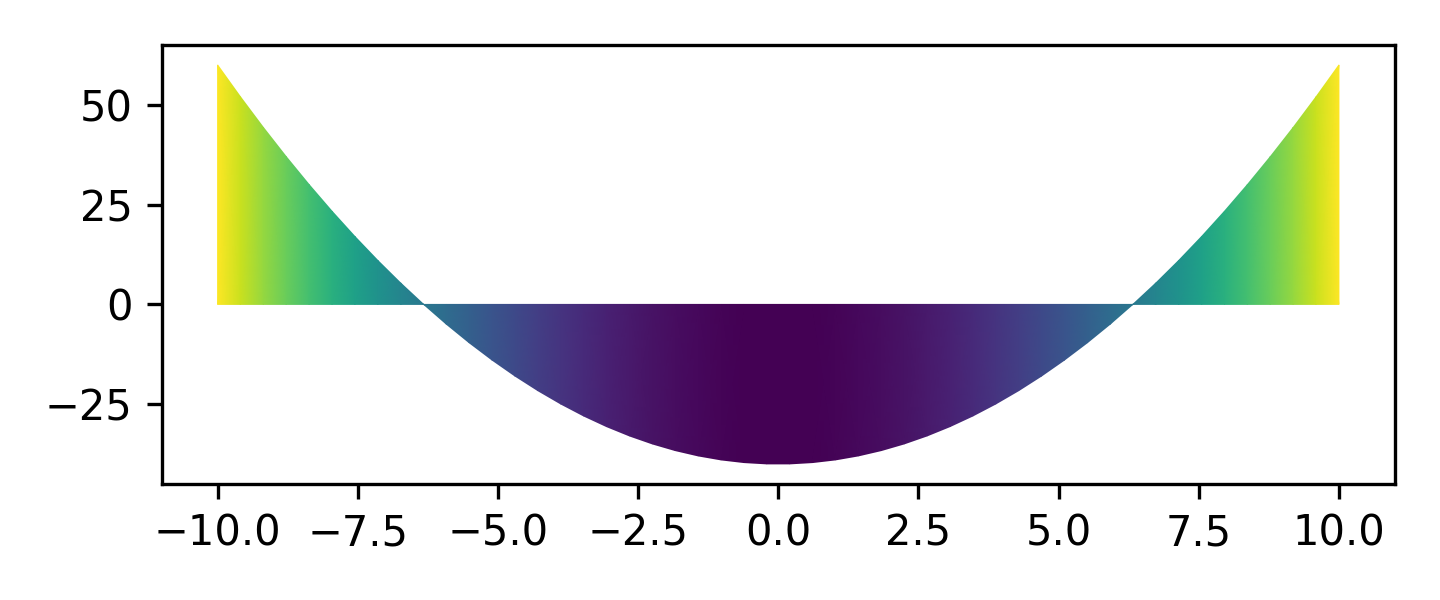
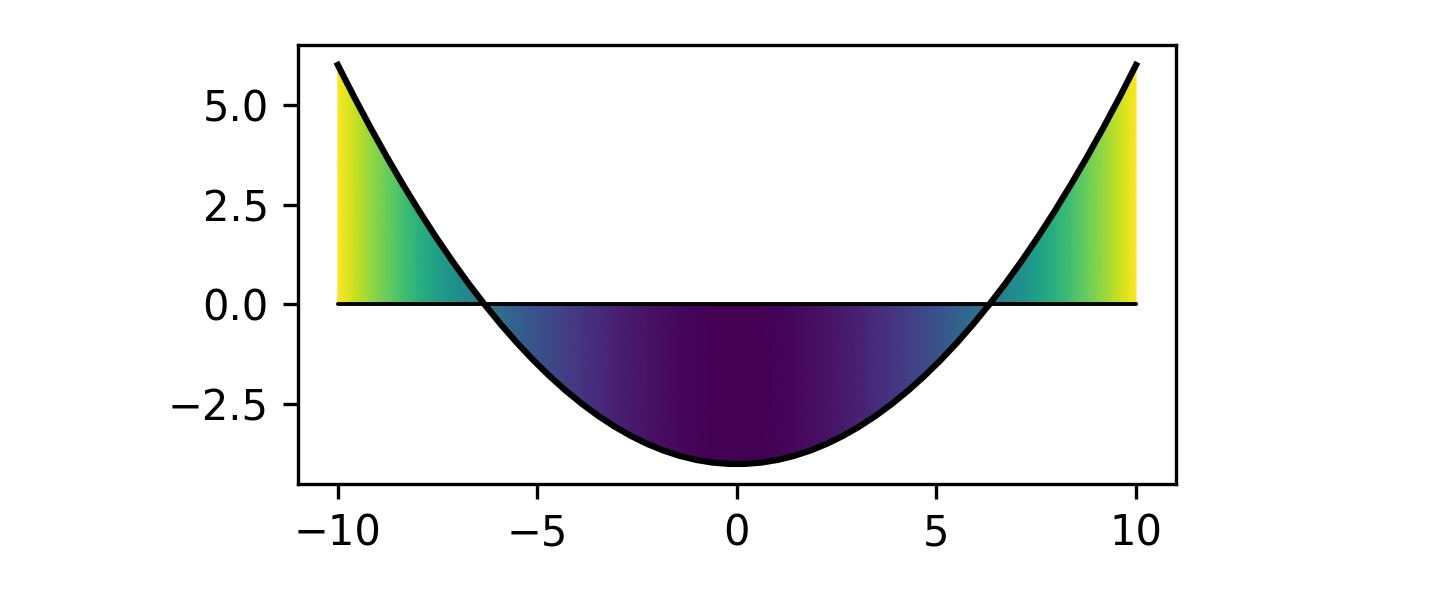
doc: update readme file

Changed region(s): [[0.0312, 0.06, 0.9688, 0.93], [0.3125, 0.81, 0.5625, 0.93], [0.625, 0.81, 0.6562, 0.93]]

diff --git a/examples/example_02.py b/examples/example_02.py
@@ -2,15 +2,16 @@ import numpy as np
 import matplotlib.pyplot as plt
 from mpl_fill_cmap_between import fill_cmap_between, fill_cmap_between_x
 
-x = np.linspace(-10, 10, 50)
-y = x**2 - 40
+x = np.linspace(0, 10, 50)
+y = (x - 5)**2 - 10
 
 fig = plt.figure(figsize=(4.8, 2.0))
 ax = fig.add_subplot(111)
 
 fill_cmap_between(x, y * 0.1, 0, ax=ax, cmap="viridis", kw_line_1=dict(color="k"),
-                  kw_line_2=dict(color="k", lw=0.5))
+                  kw_line_2=dict(color="k", lw=0.5), angle=40, origin=(10, 0))
 ax.set_aspect("equal")
+ax.grid(True, ls=":")
 
 fig.tight_layout()
-fig.savefig("example.png", dpi=300)
+fig.savefig("example_02.png", dpi=300)

diff --git a/README.md b/README.md
@@ -10,19 +10,45 @@ The function `fill_cmap_between` (and also the function `fill_cmap_between_x`) c
 ```python
 import numpy as np
 import matplotlib.pyplot as plt
-from mpl_fill_cmap_between import fill_cmap_between
+from mpl_fill_cmap_between import fill_cmap_between, fill_cmap_between_x
 
-x = np.linspace(-10, 10, 100)
+x = np.linspace(-10, 10, 50)
 y = x**2 - 40
 
 fig = plt.figure(figsize=(4.8, 2.0))
 ax = fig.add_subplot(111)
 
-fill_cmap_between(x, y, 0, ax=ax, cmap="viridis")
+fill_cmap_between(x, y * 0.1, 0, ax=ax, cmap="viridis", kw_line_1=dict(color="k"),
+                  kw_line_2=dict(color="k", lw=0.5))
+ax.set_aspect("equal")
 
 fig.tight_layout()
-fig.savefig("example.png", dpi=300)
+fig.savefig("example.pdf", dpi=300)
 ```
 
 ![Example](examples/example.png)
 
+
+The plot can also be rotated by an angle from a given origin:
+
+```python
+import numpy as np
+import matplotlib.pyplot as plt
+from mpl_fill_cmap_between import fill_cmap_between, fill_cmap_between_x
+
+x = np.linspace(0, 10, 50)
+y = (x - 5)**2 - 10
+
+fig = plt.figure(figsize=(4.8, 2.0))
+ax = fig.add_subplot(111)
+
+fill_cmap_between(x, y * 0.1, 0, ax=ax, cmap="viridis", kw_line_1=dict(color="k"),
+                  kw_line_2=dict(color="k", lw=0.5), angle=40, origin=(10, 0))
+ax.set_aspect("equal")
+ax.grid(True, ls=":")
+
+fig.tight_layout()
+fig.savefig("example_02.png", dpi=300)
+```
+
+![Example](examples/example_02.png)
